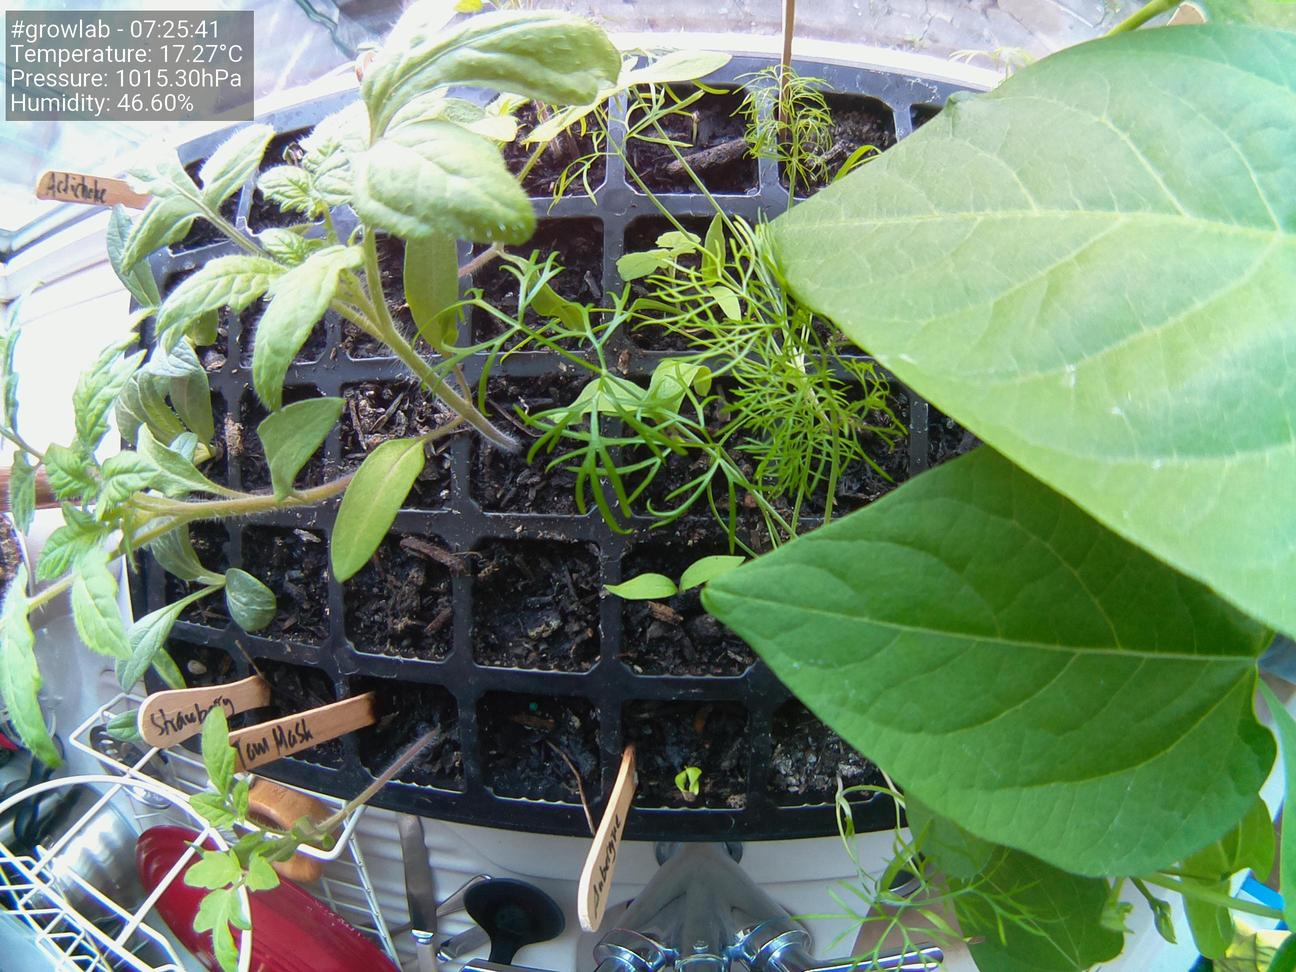
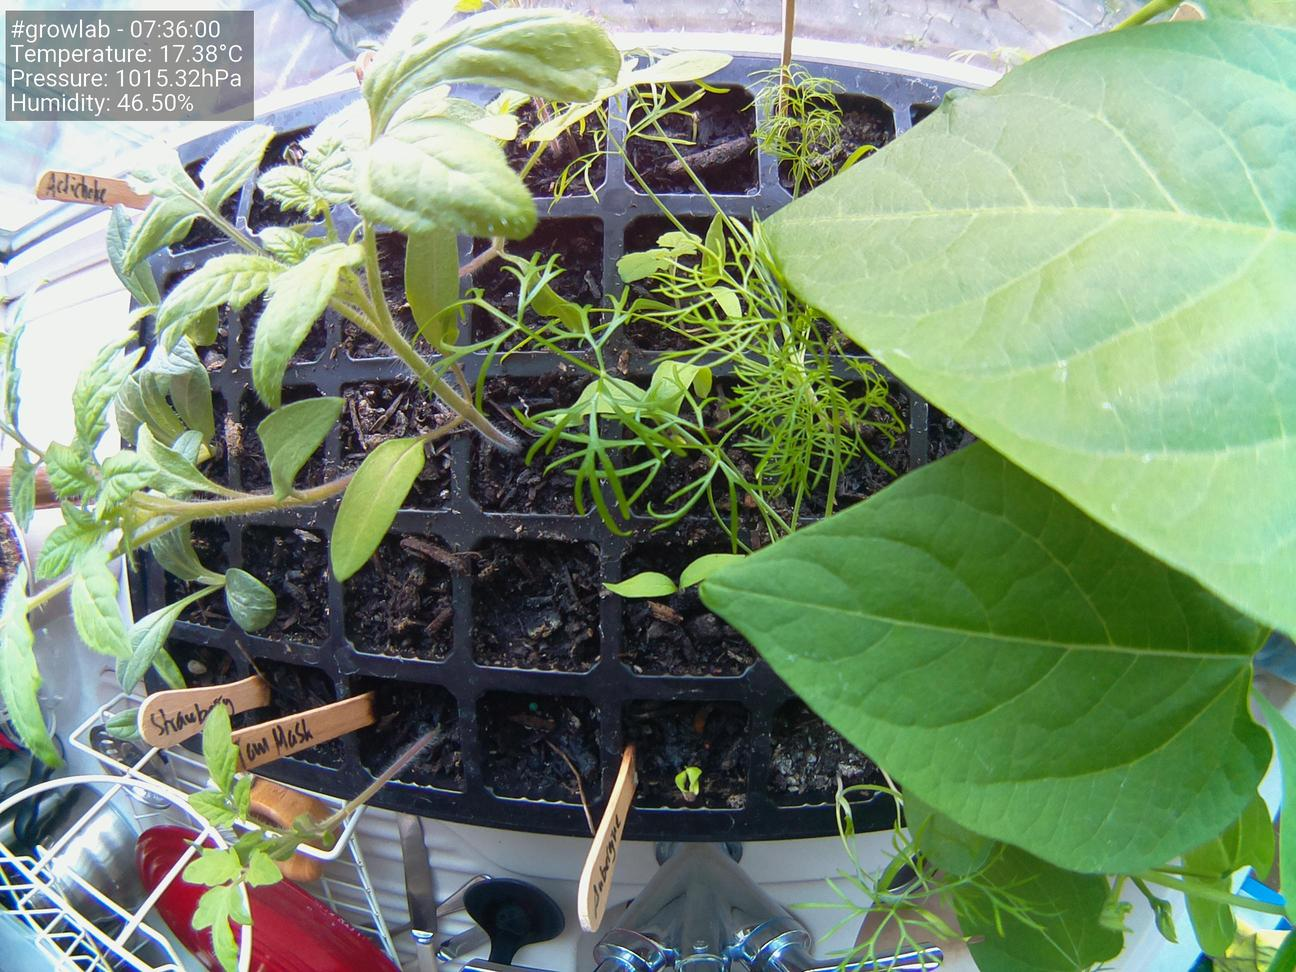
Update images at Fri 30 Apr 07:36:11 BST 2021

diff --git a/docs/index.html b/docs/index.html
@@ -38,19 +38,19 @@
                     <tbody>
                         <tr>
                             <td>Time</td>
-                            <td>07:25:41</td>
+                            <td>07:36:00</td>
                         </tr>
                         <tr>
                             <td>Temperature</td>
-                            <td>17.27°C</td>
+                            <td>17.38°C</td>
                         </tr>
                         <tr>
                             <td>Humidity</td>
-                            <td>46.60%</td>
+                            <td>46.50%</td>
                         </tr>
                         <tr>
                             <td>Pressure</td>
-                            <td>1015.30hPa</td>
+                            <td>1015.32hPa</td>
                         </tr>
                     </tbody>
                 </table>
@@ -58,7 +58,7 @@
 
                 <h5>Latest image</h5>
 		<div style="width: 85%;">
-	                <img class="figure-img img-fluid rounded" src="./preview.jpg?uid=1619763952.0762043">
+	                <img class="figure-img img-fluid rounded" src="./preview.jpg?uid=1619764571.5211856">
 		</div>
             </div>
         </div>
